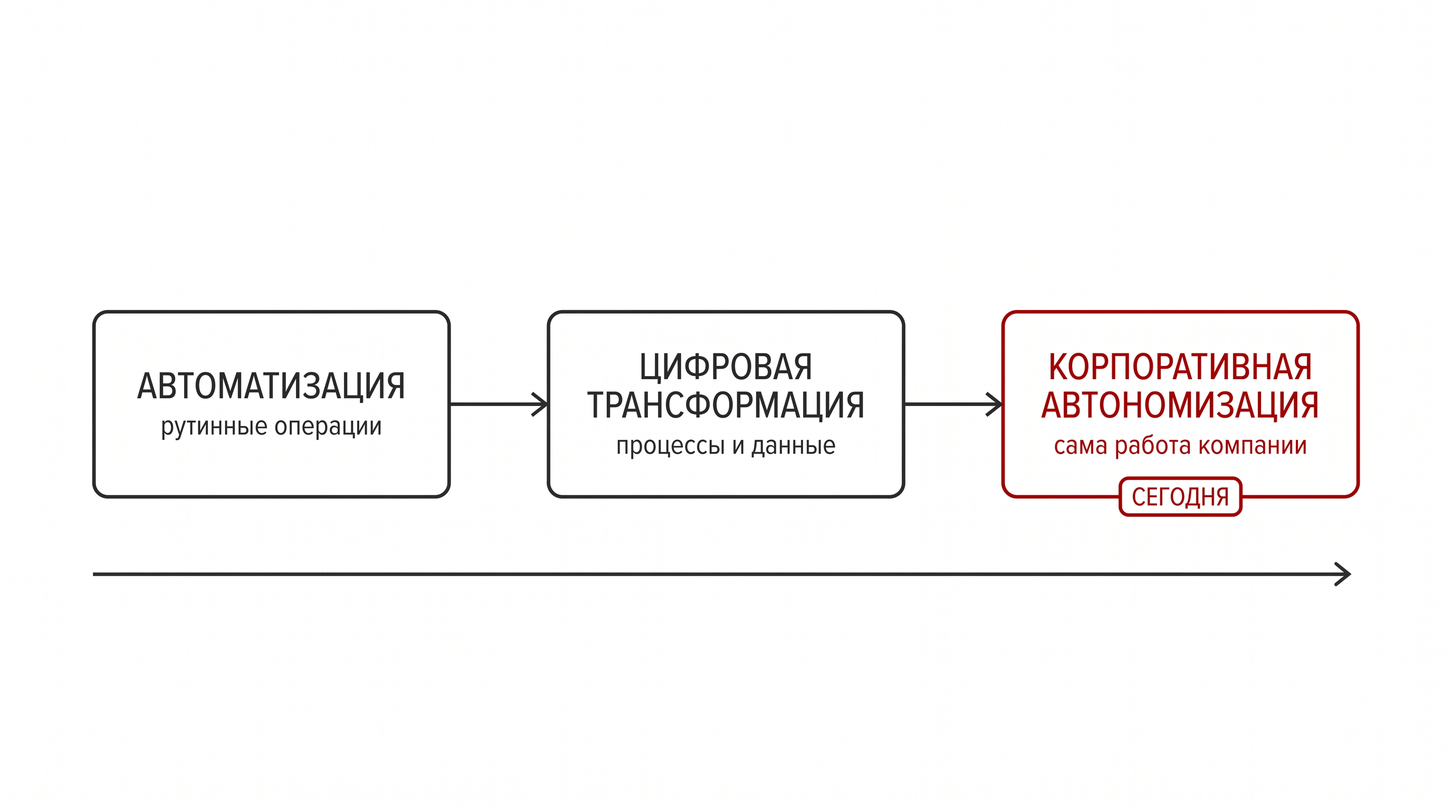
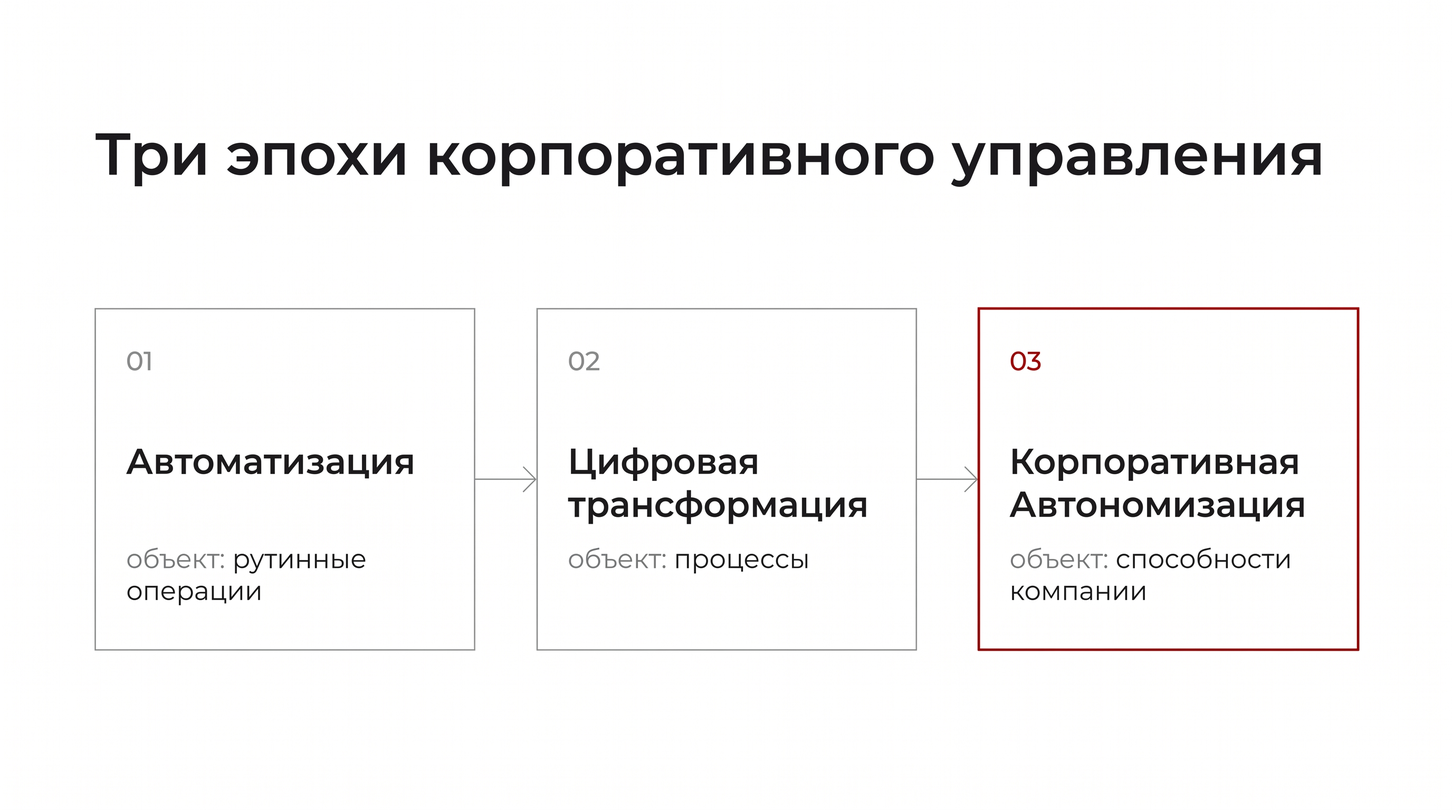
Синхрон трёх глав + перегенерированные схемы

diff --git a/chapters/01-sdvig/companion.md b/chapters/01-sdvig/companion.md
@@ -13,7 +13,9 @@
 - Компании вошли в третью эпоху, а приняли её за «эпоху инструментов» - отсюда сорок закупленных инструментов и ноль переданной работы.
 
 Механика передачи (сквозной пример - **обработка обращений**: принять входящее и довести до решённого состояния):
-- **Разомкнутое состояние** выглядит как ускорение: ассистент готовит ответ, оператор правит и отправляет. Петля разомкнута - за решённость вопроса клиента не отвечает никто, система меряет скорость подготовки, не решённость [9]. **Канал интеллекта** вырос (ответы готовятся лучше), **канал ответственности** остался прежним (последствие вручную замыкает человек). При росте потока слабейшим рычагом становится ручной замок - **принцип конвоя**: скорость идёт по слабейшему рычагу. `Статус: Интерпретация`.
+- **Положительный полюс и фальсифицируемость:** DBS закрыл цель S$1 млрд эффекта от ИИ на год раньше срока, измеряя эффект против контрольных групп [10]; тезис главы проверяем - если полный контур систематически не даёт отрыва, рамка неверна. `Статус: Факт самоотчёта + методологическое обязательство`.
+- **Тест эпохи** работает по способностям (сгруппировать инициативы по способностям до разметки), зоны: 0-1 инструмент, 2-4 зона ассистентов, 5-6 переданная работа; для совета каждое «да» подтверждается артефактом и валидируется внутренним аудитом.
+- **Разомкнутое состояние** выглядит как ускорение: ассистент готовит ответ, оператор правит и отправляет. Петля разомкнута - за решённость вопроса клиента не отвечает никто, система измеряет скорость подготовки, не решённость [9]. **Канал интеллекта** вырос (ответы готовятся лучше), **канал ответственности** остался прежним (последствие вручную замыкает человек). При росте потока слабейшим рычагом становится ручной замок - **принцип конвоя**: скорость идёт по слабейшему рычагу. `Статус: Интерпретация`.
 - **Замкнуть контур** = провести границы, назначить владельцев, посчитать цену возврата так, чтобы система вела обращение до решённого состояния сама, а человек стоял на границе. Это работа следующей главы.
 
 Доказательство, что сдвиг реален (телеком, отрасль без маркетингового энтузиазма): шкала из 6 уровней автономности с официальной методикой оценки и сертификацией, зрелость меряют по нескольким осям (стратегия, культура, клиент, данные, операции, технологии) [6]. Тему перевели из технической в управленческую. Честная мера держит от рекламы: около 21 процента дотянули до уровня 3+ (год назад 19), на уровень 4 в общем зачёте вышли единицы (~4 процента), во 2H2025 - первые независимо подтверждённые случаи уровня 4 в узких доменах. Амбиция 50-70 процентов автономии операций к 2030 - Прогноз. Разрыв амбиции и факта огромен, и это делает тезис честнее.
@@ -31,7 +33,7 @@
 - Записываются ли действия и решения системы, есть ли сигнал сбоя раньше, чем о нём узнает клиент?
 - Возвращается ли результат каждого действия в систему и правит ли её поведение?
 - Есть ли механизм остановить систему и вернуть работу человеку, и посчитано ли, во сколько этот возврат обходится?
-- Возьми сквозной пример «обработка обращений» (или его аналог у вас): в разомкнутом или замкнутом состоянии живёт способность - меряете вы скорость подготовки ответа или решённость вопроса клиента?
+- Возьми сквозной пример «обработка обращений» (или его аналог у вас): в разомкнутом или замкнутом состоянии живёт способность - измеряете вы скорость подготовки ответа или решённость вопроса клиента?
 - Какими метриками внедрения ИИ компания гордится сегодня (число пилотов, скорость раскатки, процент сотрудников с доступом к ассистенту)?
 - В какой вы отрасли, какова цена ошибки и регуляторные требования в каждом рассматриваемом контуре?
 

diff --git a/chapters/01-sdvig/chapter.md b/chapters/01-sdvig/chapter.md
@@ -61,7 +61,7 @@ readingTime: "~14 минут"
 
 Разомкнутое состояние выглядит как ускорение. Ассистент читает обращение, поднимает историю клиента и предлагает оператору готовый ответ. Оператор правит формулировку и отправляет. Обращения обрабатываются быстрее, оператор тратит меньше сил на рутину, и картина внутри выглядит как прогресс.
 
-Петля - полный круг работы: увидеть, понять, решить, сделать, проверить результат и поправить поведение - при этом остаётся разомкнутой. Ассистент отвечает за подсказку, оператор - за отправленный текст, а за то, решён ли вопрос клиента, не отвечает никто. Система меряет скорость подготовки ответа и не меряет решённость. Канал интеллекта вырос - ответы готовятся лучше и быстрее. Канал ответственности остался прежним - последствие по-прежнему замыкает на себе человек, вручную, по каждому обращению [9].
+Петля - полный круг работы: увидеть, понять, решить, сделать, проверить результат и поправить поведение - при этом остаётся разомкнутой. Ассистент отвечает за подсказку, оператор - за отправленный текст, а за то, решён ли вопрос клиента, не отвечает никто. Система измеряет скорость подготовки ответа и не измеряет решённость. Канал интеллекта вырос - ответы готовятся лучше и быстрее. Канал ответственности остался прежним - последствие по-прежнему замыкает на себе человек, вручную, по каждому обращению [9].
 
 Пока поток небольшой, это работает. Как только поток растёт, слабейшим рычагом становится тот самый ручной замок на человеке, и ускорение подготовки упирается в него - здесь работает принцип конвоя: скорость идёт по слабейшему рычагу.
 
@@ -102,7 +102,7 @@ readingTime: "~14 минут"
 
 ## Тест эпохи
 
-Первый шаг можно сделать сейчас, на своём материале. Возьмите тот самый список инициатив со слайда - восьми-пятнадцати строк достаточно. Сначала сгруппируйте строки по способностям: к какой работе компании относится каждая, - тест меряет способность, а не софт. Затем разметьте каждую по шести маркерам, отвечая «да» или «нет». Первый прогон сделайте сами, начистоту. Когда тест пойдёт в совет, правило меняется: каждое «да» подтверждается артефактом - документом полномочий, фамилией владельца, цифрой цены возврата, - а разметку менеджмента валидирует внутренний аудит, не автор слайда.
+Первый шаг можно сделать сейчас, на своём материале. Возьмите тот самый список инициатив со слайда - восьми-пятнадцати строк достаточно. Сначала сгруппируйте строки по способностям: к какой работе компании относится каждая, - тест измеряет способность, а не софт. Затем разметьте каждую по шести маркерам, отвечая «да» или «нет». Первый прогон сделайте сами, начистоту. Когда тест пойдёт в совет, правило меняется: каждое «да» подтверждается артефактом - документом полномочий, фамилией владельца, цифрой цены возврата, - а разметку менеджмента валидирует внутренний аудит, не автор слайда.
 
 1. **Передача работы.** Система выполняет работу целиком - от наблюдения за состоянием до действия и проверки результата? Или помогает человеку, который делает эту работу сам?
 2. **Полномочия.** Заданы явные права и запреты: что система делает сама, где стоп и она зовёт человека?

diff --git a/chapters/01-sdvig/claims.md b/chapters/01-sdvig/claims.md
@@ -31,7 +31,7 @@
 
 ## Claim 4: разомкнутая передача ускоряет подготовку, но результат остаётся на человеке
 
-На сквозном примере (обработка обращений): ассистент готовит ответ, оператор правит и отправляет - выглядит как прогресс. Петля разомкнута: за решённость вопроса клиента не отвечает никто, система меряет скорость подготовки, не решённость. Канал интеллекта вырос, канал ответственности остался прежним.
+На сквозном примере (обработка обращений): ассистент готовит ответ, оператор правит и отправляет - выглядит как прогресс. Петля разомкнута: за решённость вопроса клиента не отвечает никто, система измеряет скорость подготовки, не решённость. Канал интеллекта вырос, канал ответственности остался прежним.
 
 - **Статус:** Интерпретация (механика) + Факт (иллюстрация разорванного канала ответственности [9]).
 - **Best evidence:** принцип конвоя - при росте потока слабейшим рычагом становится ручной замок на человеке, скорость идёт по нему. Риск тихий: нерешённые обращения не видны как класс, потому что метрика на них не смотрит [9].
@@ -64,3 +64,12 @@
 - **Best evidence:** у большинства, кто делает это впервые, картина одна: почти всё в колонке инструментов, переходная зона - несколько пунктов, переданной работы - единицы или ноль. Модель можно купить за день; границы, полномочия и обратимость - нет, и у конкурента с той же моделью их может не оказаться вовсе.
 - **Сильнейший контраргумент:** самодиагностика субъективна; разметка «да/нет» огрубляет промежуточные состояния.
 - **Где проверить:** глава, раздел «Тест эпохи» (шесть маркеров, три полосы вердикта).
+
+## Claim 8: у замкнутого подхода есть положительный полюс и критерий ошибочности
+
+DBS (Сингапур) закрыл цель S$1 млрд экономического эффекта от ИИ на год раньше срока (S$1 млрд за 2025, после S$370 млн за 2023), измеряя эффект против контрольных групп [10]. Тезис главы фальсифицируем: если держатели полного контура по шести маркерам на горизонте двух-трёх лет систематически не отрываются от компаний с теми же моделями без контура - рамка неверна.
+
+- **Статус:** Факт самоотчёта (DBS) + заявленный критерий проверки (методологическое обязательство книги).
+- **Best evidence:** публичные заявления банка, разбор CDOTrends 25.02.2026.
+- **Сильнейший контраргумент:** причинность «контур -> эффект» не доказана - возможны сопутствующие факторы (масштаб, данные, рынок).
+- **Где проверить:** раздел «Цена передачи», источник [10].

diff --git a/chapters/00-manifest/companion.md b/chapters/00-manifest/companion.md
@@ -12,6 +12,10 @@
 
 Центральный термин - **Корпоративная Автономизация**: управленческая дисциплина, которая рассматривает компанию как систему способностей и для каждой определяет, какую часть работы - вместе с возможностью самоулучшения - можно передать ИИ-агентам, не теряя управляемости. Правила игры остаются за людьми: делегируется интеллект, но не ответственность. Шорткат - перевод способностей в автономный режим. Две опоры: единица передачи - способность (работа от начала до конца), объект автономизации - компания как система способностей; и управляемость - спроектированный контур с границами, наблюдаемостью, обратной связью и обратимостью.
 
+Введение вводит **энтропию** как несущий термин: автоматизация детерминирована, автономизация - нет (агент получает цель, инструменты и границы, способ выбирает сам); неопределённость результата - энтропия контура, ею управляют через обратную связь и замкнутый цикл, а не только измеряют. Куда энтропия стекает: сегодня её гасят люди по цепочке; замена всех «одним дата-центром» выливает неопределённость на оставшегося ответственного. Тезис единицы: **способность не передаётся - она переводится в автономный режим** (работа - агентам, способность и ответственность - у компании).
+
+Адресат книги назван: собственник, CEO, совет директоров. Вопрос-визитка для совета: «какие решения в вашей компании уже принимает машина - и кто решил, где она обязана остановиться?»
+
 Через книгу проходит **принцип парности**: автономизация снимает класс человеческих ошибок и открывает класс агентских; надёжность не отменяется, энтропия переносится из одних ошибок в другие. Выигрыш реален вместе с контуром контроля и мнимый без него. У каждого сильного утверждения есть парная оговорка.
 
 Сквозной пример через вводную и первые две главы - **обработка обращений** (принять входящее обращение и довести до решённого состояния). Проводится через три состояния зрелости: как способность, в разомкнутом состоянии (ускорение без замкнутого результата, глава 01), в замкнутом (контур с границами, владельцами, посчитанной обратимостью, глава 02).

diff --git a/chapters/00-manifest/claims.md b/chapters/00-manifest/claims.md
@@ -59,7 +59,7 @@
 ### Claim 7: Принцип парности - энтропия переносится, а не исчезает
 `Статус: Интерпретация`
 
-Автономизация снимает класс человеческих ошибок и открывает класс агентских. Надёжность не отменяется, энтропия переносится из одних ошибок в другие. Выигрыш реален вместе с контуром контроля и мнимый без него.
+Автономизация снимает класс человеческих ошибок и открывает класс агентских. Надёжность не отменяется, энтропия переносится из одних ошибок в другие - и ею управляют: контур измеряет расхождение ожидаемого и фактического результата и сжимает разброс через обратную связь. Выигрыш реален вместе с контуром контроля и мнимый без него.
 
 - **Best evidence:** парная оговорка к каждому сильному утверждению как правило чтения.
 - **Открытый вопрос:** когда класс агентских ошибок дороже снятого класса человеческих.

diff --git a/chapters/01-sdvig/prompts.md b/chapters/01-sdvig/prompts.md
@@ -67,7 +67,7 @@
 Разбери по шагам:
 1. Что делает система (ассистент готовит ответ?) и что делает человек (правит и отправляет?).
 2. Кто отвечает за решённость вопроса клиента - назови владельца результата. Если не отвечает никто - зафиксируй это.
-3. Что меряет метрика: скорость подготовки ответа или решённость? Видны ли нерешённые обращения как класс?
+3. Что измеряет метрика: скорость подготовки ответа или решённость? Видны ли нерешённые обращения как класс?
 4. Канал интеллекта (готовятся ли ответы лучше и быстрее) и канал ответственности (кто вручную замыкает последствие) - разведи их.
 5. Принцип конвоя: где слабейший рычаг, в который упрётся ускорение при росте потока?
 

diff --git a/prompts/starter-prompts.md b/prompts/starter-prompts.md
@@ -66,7 +66,7 @@ https://denreymer.com/book
 Сведи картину: сколько всего, сколько инструментов, сколько в переходной зоне, сколько передано.
 
 ВЫДЕЛЕНИЕ КОНТУРА (глава 02). Возьми 2-3 лучшие инициативы (те, что назвал бы автономными)
-и пройди по семи элементам (сенсинг, понимание, решение и действие, контроль результата,
+и пройди по семи элементам (приём сигнала, понимание, решение, действие, контроль результата,
 граница и эскалация, обратимость). По каждому - да/нет. Где «нет», особенно на контроле
 результата и владельце, - это ассистент, а не переданная работа.
 
